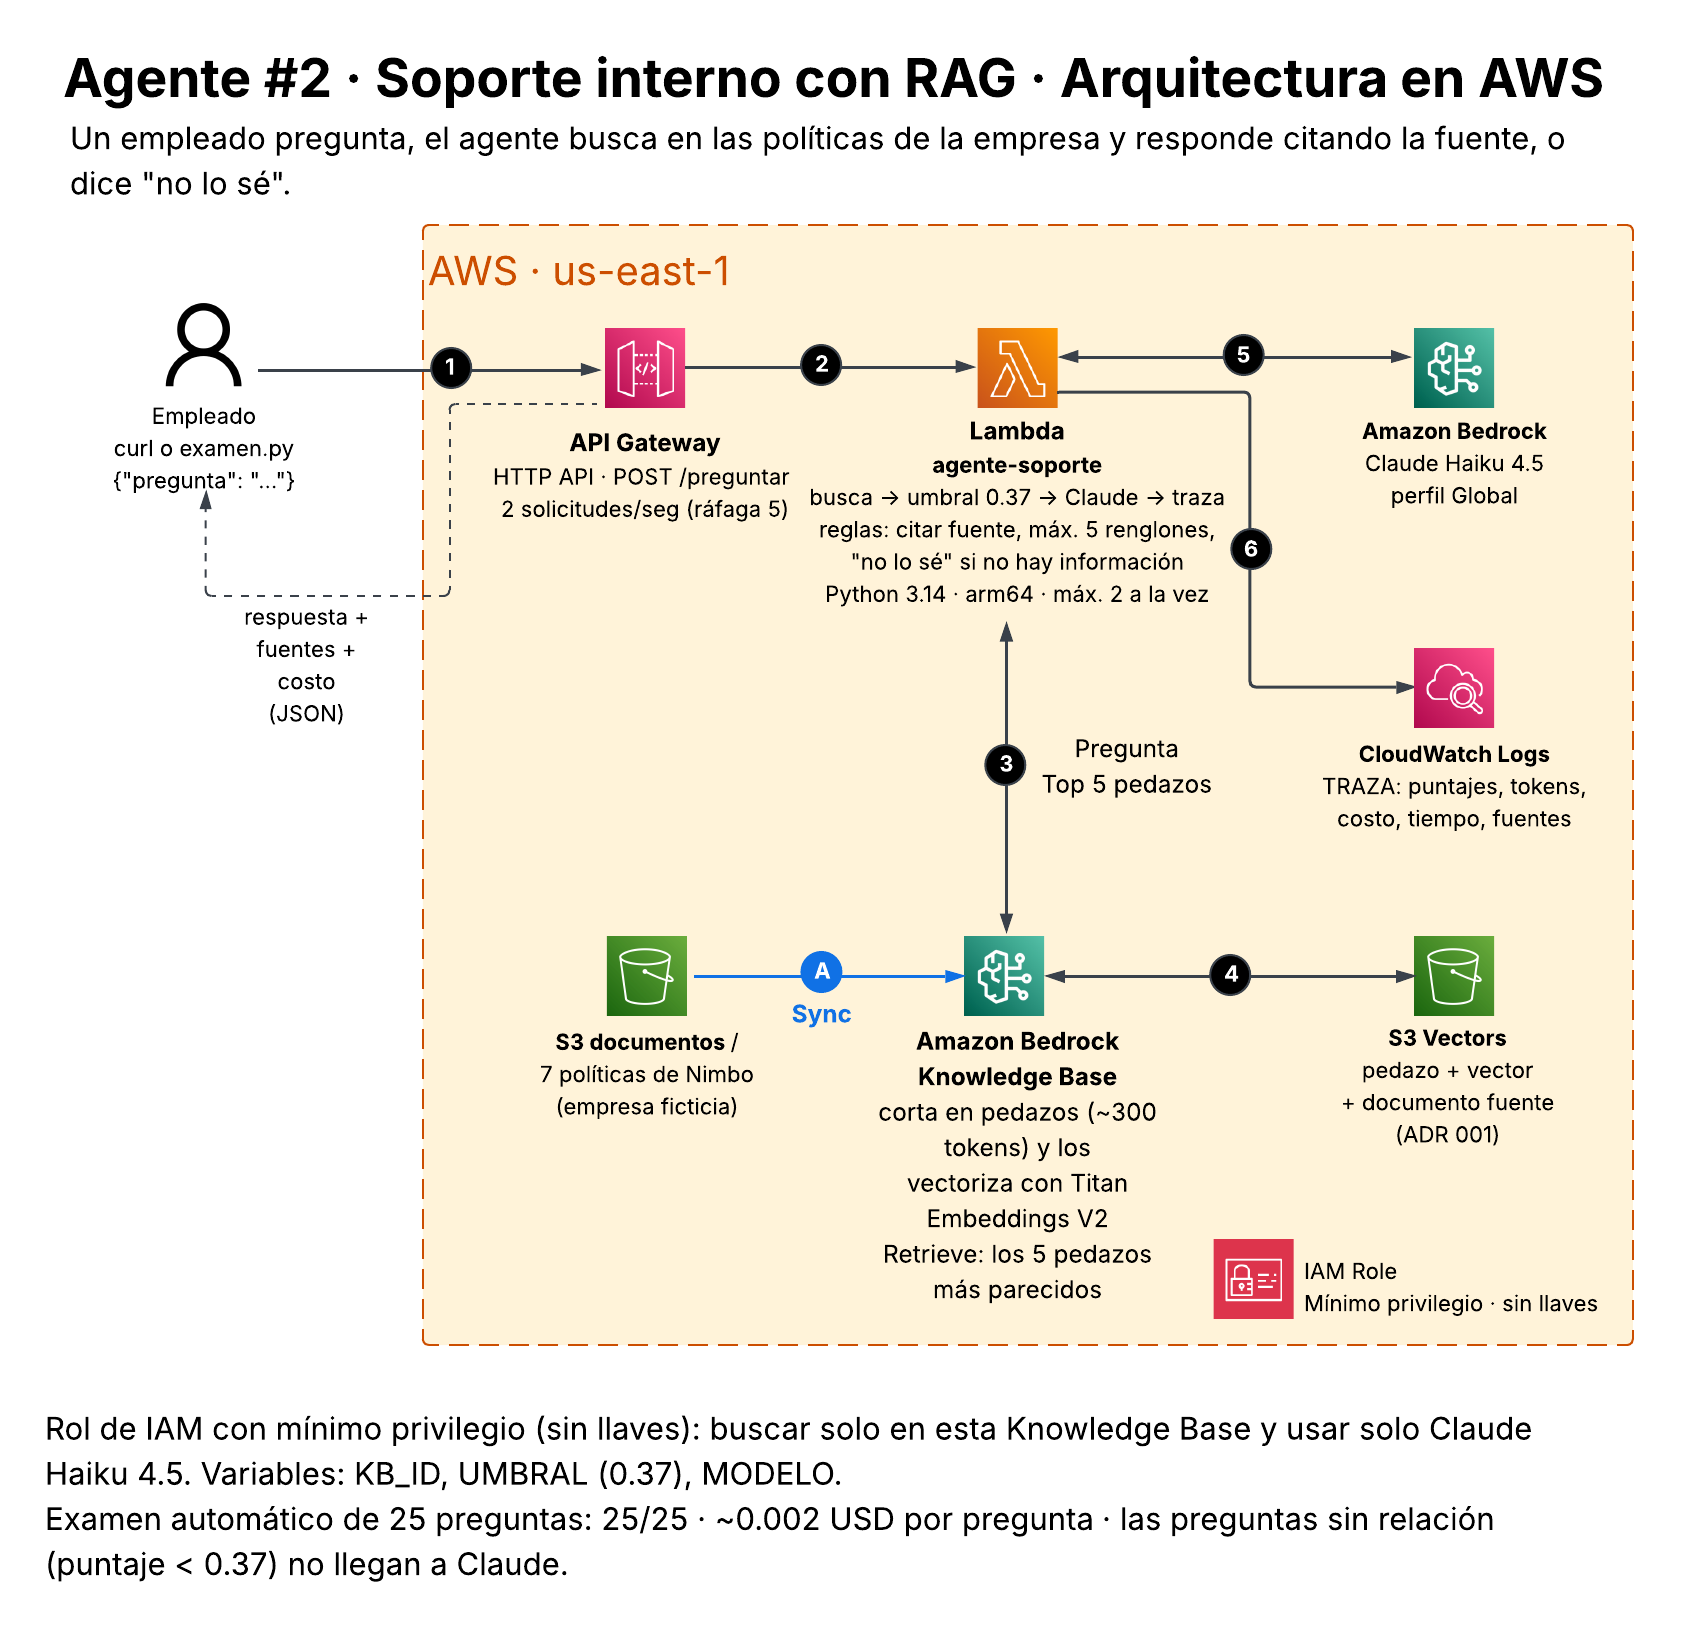
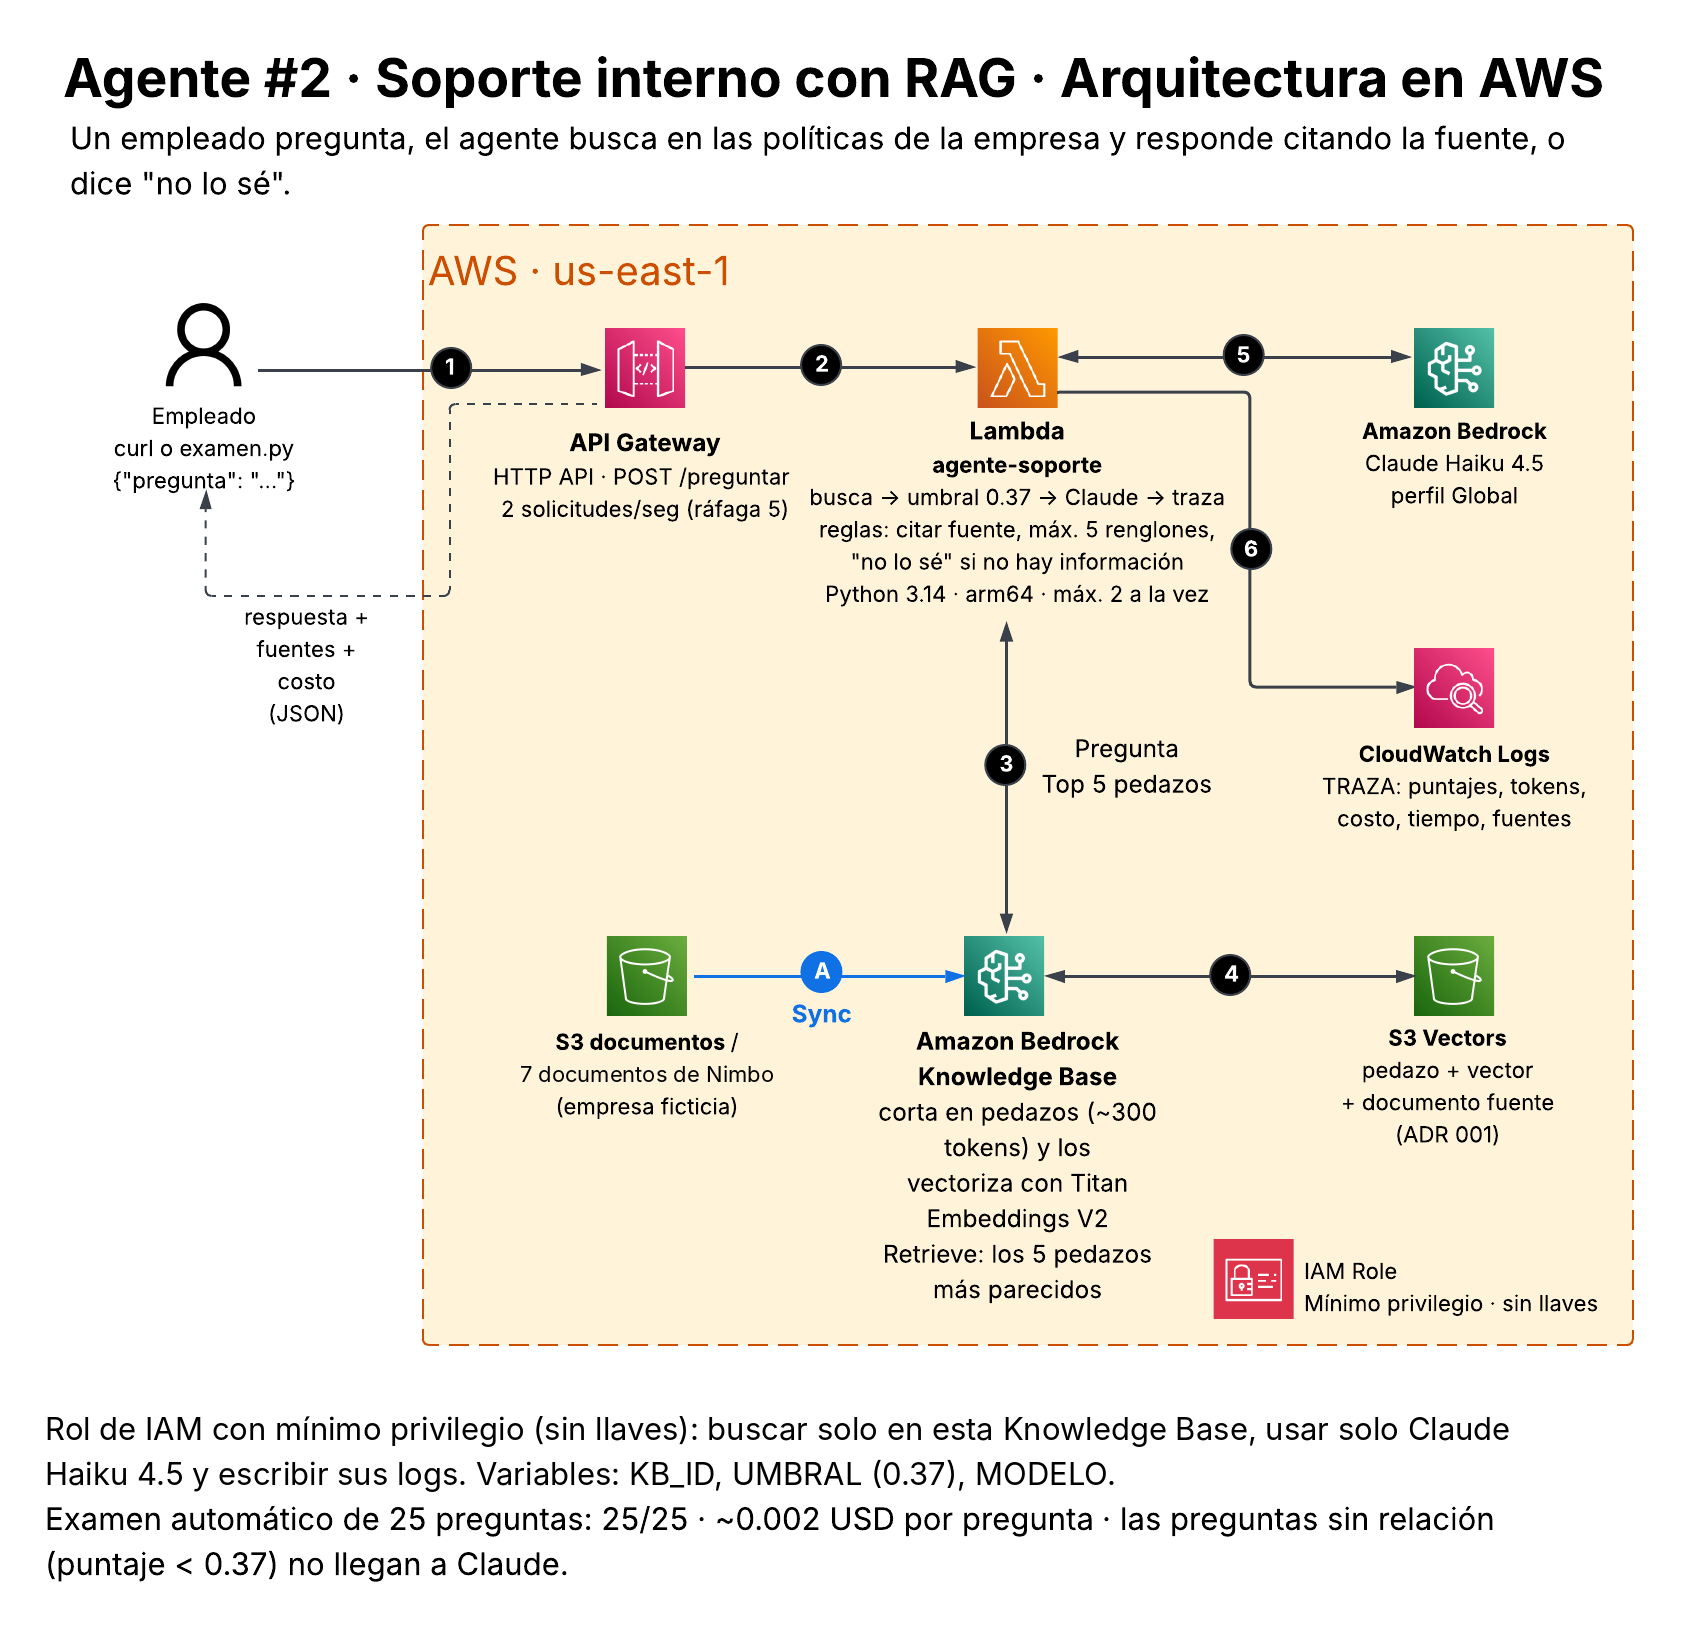
Agente 2: diagrama y README precisos (7 documentos, permiso de logs)

Changed region(s): [[0.1231, 0.86, 0.8923, 0.9214], [0.3077, 0.645, 0.4615, 0.6757], [0.0615, 0.86, 0.1231, 0.8907]]

diff --git a/README.md b/README.md
@@ -61,7 +61,7 @@ Respuesta:
 | ¿Cuál es la capital de Francia? | "No lo sé", **sin llamar a Claude** | $0 |
 
 **Seguridad y costos**
-- Sin llaves: la Lambda usa un rol de IAM con solo 2 permisos ([`aws/politica-iam.json`](aws/politica-iam.json)): buscar en **su** Knowledge Base y usar **solo** Claude Haiku 4.5.
+- Sin llaves: la Lambda usa un rol de IAM de mínimo privilegio: buscar en **su** Knowledge Base y usar **solo** Claude Haiku 4.5 ([`aws/politica-iam.json`](aws/politica-iam.json)), más el permiso básico de Lambda para escribir sus logs en CloudWatch.
 - Umbral del "no lo sé" (0.37) calibrado con el examen automático: si ningún pedazo se parece lo suficiente, no se llama a Claude.
 - API limitada a 2 solicitudes por segundo y Lambda limitada a 2 ejecuciones a la vez.
 - Cada pregunta deja una traza en CloudWatch: puntajes, tokens, costo, tiempo y fuentes.
